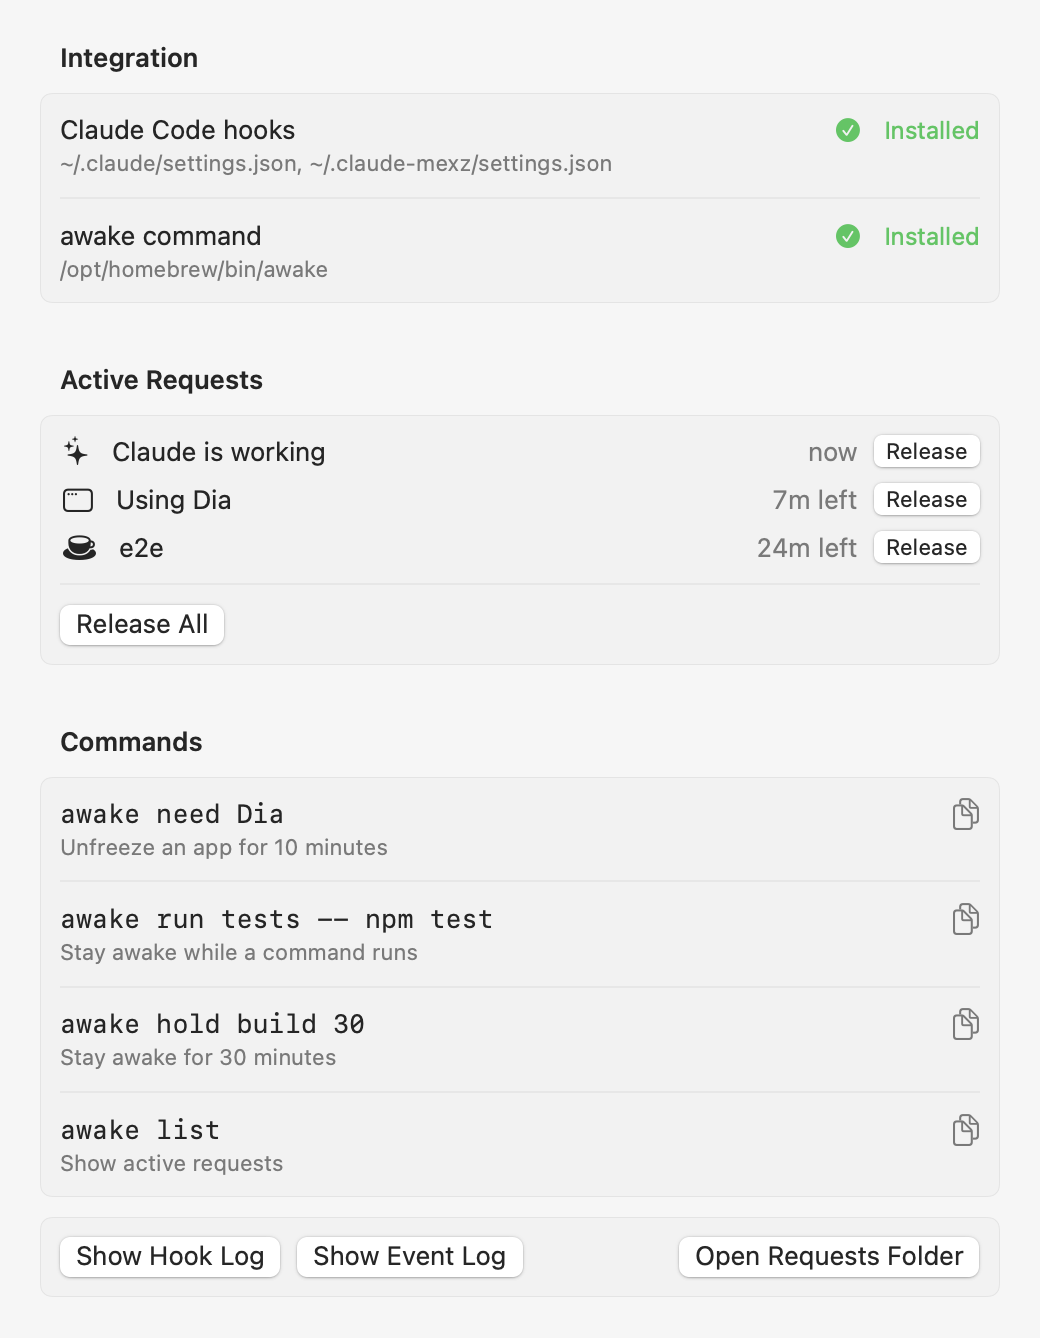
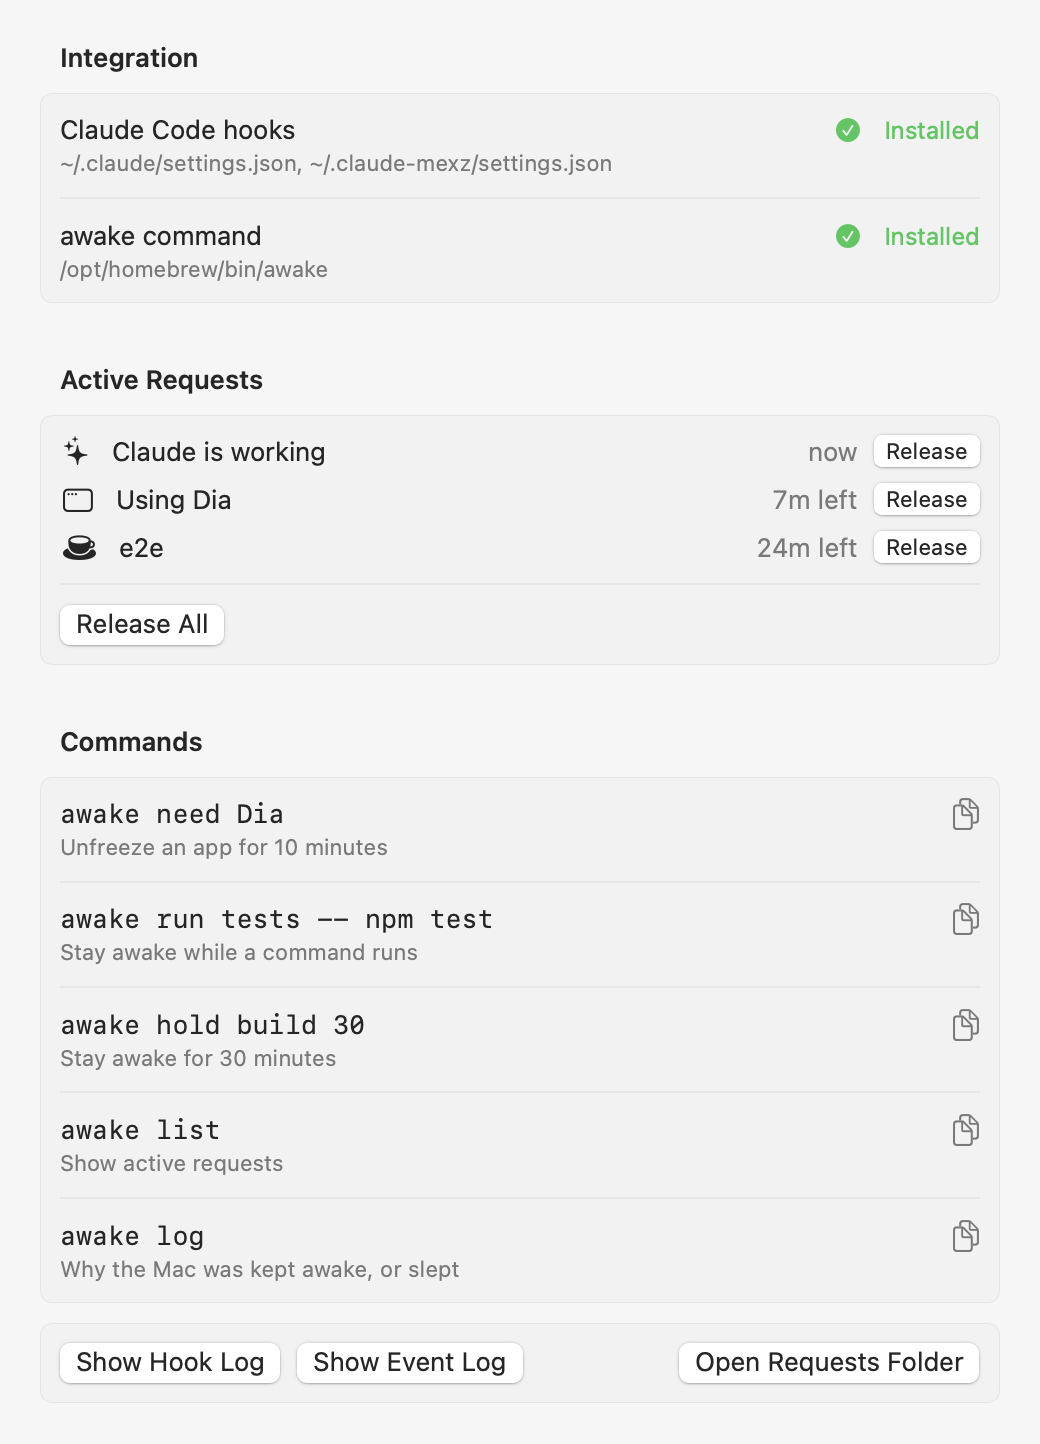
Re-block closed-lid sleep when another app resets it, and log every decision (#2)
Last night the Mac went into Clamshell Sleep at 23:20 while Sleepwalker was
holding it awake for T3 Code. Sleepwalker only remembered the last
`pmset disablesleep` value it set, so when another tool (Vorssaint also has a
sudoers rule for it) turned it off, nothing put it back.

- Read the real SleepDisabled value from IOPMrootDomain every tick and block
  closed-lid sleep again if something else re-enabled it.
- Log every keep-awake decision with its reason, lid and power changes,
  why closed-lid sleep is allowed, failed pmset calls, and a state snapshot
  at every sleep and wake. Local timestamps, kept for weeks.
- `awake log` and `awake sleeplog` to read it next to macOS's own record.
- Lid & Power pane shows whether closing the lid would sleep the Mac right now.

diff --git a/Sources/Sleepwalker/Model.swift b/Sources/Sleepwalker/Model.swift
@@ -144,6 +144,13 @@ final class Model: ObservableObject {
     private var userResumed = Set<pid_t>()
     /// Last value we sent to `pmset disablesleep`; nil = unknown, forces a reset.
     private var appliedLidSleepDisabled: Bool?
+    /// Last decisions written to the event log, so only changes get logged.
+    private var loggedAwake: String?
+    private var loggedLid: String?
+    private var loggedLidState: String?
+    private var loggedPower: String?
+    /// Set after a failed `pmset` call so a broken helper doesn't flood the log.
+    private var lidSetFailed = false
     private var timer: Timer?
     private var observers: [NSObjectProtocol] = []
 
@@ -196,6 +203,20 @@ final class Model: ObservableObject {
             Task { @MainActor in
                 self?.pausedPIDs.remove(app.processIdentifier)
                 self?.userResumed.remove(app.processIdentifier)
+                self?.apply()
+            }
+        })
+
+        // Log every sleep and wake with the state at that moment, so a Mac
+        // that fell asleep unexpectedly can be explained afterwards.
+        observers.append(center.addObserver(
+            forName: NSWorkspace.willSleepNotification, object: nil, queue: .main
+        ) { [weak self] _ in MainActor.assumeIsolated { self?.logSnapshot("Mac is going to sleep") } })
+        observers.append(center.addObserver(
+            forName: NSWorkspace.didWakeNotification, object: nil, queue: .main
+        ) { [weak self] _ in
+            MainActor.assumeIsolated {
+                self?.logSnapshot("Mac woke up")
                 self?.apply()
             }
         })
@@ -431,6 +452,7 @@ final class Model: ObservableObject {
         // protected defaults (an open Mail shouldn't keep the Mac awake).
         let anyCheckedRunning = running.contains { checked.contains($0.bundleIdentifier!) }
         let manual = keepAwake && (!onlyWhileCheckedRunning || anyCheckedRunning)
+        let power = LidControl.powerDescription
 
         // Away = lid closed and no external display (clamshell mode means the
         // user is working on the external screen, so nothing is frozen or dimmed).
@@ -438,6 +460,9 @@ final class Model: ObservableObject {
         let nowAway = closed && !LidControl.externalDisplayActive
         if closed != lidClosed { lidClosed = closed }
         if nowAway != away { away = nowAway }
+        logChange(&loggedLidState, closed ? (nowAway ? "lid closed" : "lid closed, external display") : "lid open")
+        logChange(&loggedPower, power == "AC" ? "power: AC" : "power: battery",
+                  detail: power == "AC" ? nil : String(power.dropFirst("battery ".count)))
 
         // Heat check: a closed laptop (e.g. in a bag) that gets seriously hot is
         // allowed to sleep. Cleared once someone is back at the Mac.
@@ -456,14 +481,39 @@ final class Model: ObservableObject {
 
         let shouldAssert = (manual || !currentLeases.isEmpty) && !overheated
         shouldAssert ? acquireAssertion() : releaseAssertion()
+        logChange(&loggedAwake, awakeDecision(running: running, manual: manual, leases: currentLeases))
 
         // 2. Closed-lid sleep: only blocked while we're keeping the Mac awake,
         //    and never on a nearly empty battery.
-        let wantLid = shouldAssert && lidClosedMode && lidHelperInstalled && !LidControl.batteryBelow(batteryCutoff)
-        if wantLid != appliedLidSleepDisabled {
-            if LidControl.setSleepDisabled(wantLid) || !wantLid { appliedLidSleepDisabled = wantLid }
-            lidSleepDisabled = wantLid && appliedLidSleepDisabled == true
+        let lowBattery = LidControl.batteryBelow(batteryCutoff)
+        let wantLid = shouldAssert && lidClosedMode && lidHelperInstalled && !lowBattery
+        logChange(&loggedLid, wantLid ? "closed-lid sleep: blocked"
+            : "closed-lid sleep: allowed (" + (!shouldAssert ? "not keeping awake"
+                : !lidClosedMode ? "lid-closed mode is off"
+                : !lidHelperInstalled ? "lid helper not installed"
+                : "battery below \(batteryCutoff)%") + ")")
+        // Compare against the real system value, not just what we last set:
+        // another app can turn `disablesleep` off, and then closing the lid
+        // would sleep the Mac even though we're holding it awake.
+        let actual = LidControl.isSleepDisabled
+        if wantLid && !actual {
+            if appliedLidSleepDisabled == true {
+                EventLog.write("closed-lid sleep was re-enabled by another app or pmset; blocking it again")
+            }
+            if LidControl.setSleepDisabled(true) {
+                appliedLidSleepDisabled = true
+                lidSetFailed = false
+            } else if !lidSetFailed {
+                lidSetFailed = true
+                EventLog.write("ERROR: could not run 'sudo -n pmset disablesleep 1'; the Mac will sleep when the lid closes")
+            }
+        } else if !wantLid && appliedLidSleepDisabled != false {
+            // Only undo what we set ourselves; leave other apps' settings alone.
+            if appliedLidSleepDisabled == true || actual { LidControl.setSleepDisabled(false) }
+            appliedLidSleepDisabled = false
         }
+        let blocked = wantLid && LidControl.isSleepDisabled
+        if blocked != lidSleepDisabled { lidSleepDisabled = blocked }
 
         // 3. Away transitions: dim the screen while away, restore when back.
         if nowAway != lastAway {
@@ -533,6 +583,36 @@ final class Model: ObservableObject {
             )
         }.sorted { $0.name.localizedCaseInsensitiveCompare($1.name) == .orderedAscending }
         if entries != apps { apps = entries }
+    }
+
+    /// One line describing whether (and why) we're keeping the Mac awake.
+    private func awakeDecision(running: [NSRunningApplication], manual: Bool, leases: [Lease]) -> String {
+        if overheated { return "not keeping awake: too hot with the lid closed" }
+        var reasons: [String] = []
+        if manual {
+            let names = running.filter { checked.contains($0.bundleIdentifier!) }.compactMap(\.localizedName)
+            reasons.append(onlyWhileCheckedRunning ? "Always on: \(names.joined(separator: ", "))" : "kept awake manually")
+        }
+        if !leases.isEmpty { reasons.append("AI requests: \(leases.map(\.name).sorted().joined(separator: ", "))") }
+        if !reasons.isEmpty { return "keeping awake (\(reasons.joined(separator: "; ")))" }
+        if !keepAwake { return "not keeping awake: switched off, no AI requests" }
+        return "not keeping awake: no Always on app running, no AI requests"
+    }
+
+    /// Writes `line` to the event log when it differs from the last one logged
+    /// under `key`. `detail` is appended but doesn't count as a change.
+    private func logChange(_ key: inout String?, _ line: String, detail: String? = nil) {
+        guard line != key else { return }
+        key = line
+        EventLog.write(detail.map { "\(line) (\($0))" } ?? line)
+    }
+
+    /// Snapshot of everything that decides whether the Mac may sleep.
+    func logSnapshot(_ event: String) {
+        guard !isPreview else { return }
+        EventLog.write("\(event): keeping awake=\(isAsserting), closed-lid sleep blocked=\(LidControl.isSleepDisabled), "
+            + "lid \(LidControl.isLidClosed ? "closed" : "open"), \(LidControl.powerDescription), "
+            + "\(leases.count) AI requests, \(pausedPIDs.count) apps frozen")
     }
 
     private func userActivated(_ app: NSRunningApplication) {

diff --git a/Sources/Sleepwalker/EventLog.swift b/Sources/Sleepwalker/EventLog.swift
@@ -1,13 +1,24 @@
 import Foundation
 
-/// Small append-only log of notable events (crash recovery, overheating, …)
-/// in ~/Library/Logs/Sleepwalker.log, trimmed to the last 1000 lines.
+/// Append-only log of every keep-awake decision (why the Mac is kept awake,
+/// lid and power changes, sleep and wake, crash recovery, overheating…) in
+/// ~/Library/Logs/Sleepwalker.log, trimmed to the last
+/// 15000 lines (weeks of use) once it passes 3 MB.
+/// Read it with `awake log`.
 enum EventLog {
     static let url = FileManager.default.homeDirectoryForCurrentUser
         .appendingPathComponent("Library/Logs/Sleepwalker.log")
 
+    /// Local time, so the log lines up with when things happened at the Mac.
+    private static let formatter: DateFormatter = {
+        let f = DateFormatter()
+        f.locale = Locale(identifier: "en_US_POSIX")
+        f.dateFormat = "yyyy-MM-dd HH:mm:ss"
+        return f
+    }()
+
     static func write(_ message: String) {
-        let stamp = ISO8601DateFormatter().string(from: Date())
+        let stamp = formatter.string(from: Date())
         let line = "\(stamp) \(message)\n"
         if let handle = try? FileHandle(forWritingTo: url) {
             handle.seekToEndOfFile()
@@ -20,9 +31,10 @@ enum EventLog {
     }
 
     private static func trimIfNeeded() {
-        guard let text = try? String(contentsOf: url, encoding: .utf8) else { return }
+        // Cheap size check first; only read the file once it's grown past 3 MB.
+        let size = (try? FileManager.default.attributesOfItem(atPath: url.path)[.size] as? Int) ?? 0
+        guard size > 3_000_000, let text = try? String(contentsOf: url, encoding: .utf8) else { return }
         let lines = text.split(separator: "\n", omittingEmptySubsequences: false)
-        guard lines.count > 1200 else { return }
-        try? lines.suffix(1000).joined(separator: "\n").write(to: url, atomically: true, encoding: .utf8)
+        try? lines.suffix(15000).joined(separator: "\n").write(to: url, atomically: true, encoding: .utf8)
     }
 }

diff --git a/Sources/Sleepwalker/SettingsView.swift b/Sources/Sleepwalker/SettingsView.swift
@@ -258,11 +258,18 @@ struct LidPane: View {
             } header: {
                 Text("Lid Closed")
             } footer: {
-                if model.lidHelperInstalled {
-                    Label("Lid-closed helper installed", systemImage: "checkmark.seal.fill")
-                        .font(.caption)
-                        .foregroundStyle(.secondary)
+                HStack(alignment: .firstTextBaseline) {
+                    if model.lidSleepDisabled {
+                        Label("Right now, closing the lid won't sleep the Mac.", systemImage: "checkmark.seal.fill")
+                    } else {
+                        Label("Right now, closing the lid sleeps the Mac.", systemImage: "moon.zzz")
+                    }
+                    Spacer()
+                    Button("Show Log") { Integration.open(EventLog.url) }
+                        .buttonStyle(.link)
                 }
+                .font(.caption)
+                .foregroundStyle(.secondary)
             }
 
             Section {
@@ -283,6 +290,7 @@ struct LidPane: View {
                 Text("With an external display connected, nothing is frozen or dimmed. If the Mac gets seriously hot with the lid closed, Sleepwalker lets it sleep to cool down.")
                     .font(.caption)
                     .foregroundStyle(.secondary)
+                    .multilineTextAlignment(.leading)
                     .fixedSize(horizontal: false, vertical: true)
                     .frame(maxWidth: .infinity, alignment: .leading)
             }
@@ -348,6 +356,7 @@ struct AIPane: View {
                 CommandRow(command: "awake run tests -- npm test", detail: "Stay awake while a command runs")
                 CommandRow(command: "awake hold build 30", detail: "Stay awake for 30 minutes")
                 CommandRow(command: "awake list", detail: "Show active requests")
+                CommandRow(command: "awake log", detail: "Why the Mac was kept awake, or slept")
             } header: {
                 Text("Commands")
             }

diff --git a/Sources/Sleepwalker/LidControl.swift b/Sources/Sleepwalker/LidControl.swift
@@ -37,6 +37,30 @@ enum LidControl {
         return p.terminationStatus == 0
     }
 
+    /// The system's actual `disablesleep` value. Other tools (Vorssaint, Amphetamine,
+    /// a manual `pmset`) can change it behind our back, so never trust a cached value.
+    static var isSleepDisabled: Bool {
+        let entry = IOServiceGetMatchingService(kIOMainPortDefault, IOServiceMatching("IOPMrootDomain"))
+        guard entry != 0 else { return false }
+        defer { IOObjectRelease(entry) }
+        return (IORegistryEntryCreateCFProperty(entry, "SleepDisabled" as CFString, kCFAllocatorDefault, 0)?
+            .takeRetainedValue() as? Bool) ?? false
+    }
+
+    /// "AC" or "battery 87%", for the event log.
+    static var powerDescription: String {
+        guard let info = IOPSCopyPowerSourcesInfo()?.takeRetainedValue(),
+              let list = IOPSCopyPowerSourcesList(info)?.takeRetainedValue() as? [CFTypeRef]
+        else { return "AC" }
+        for source in list {
+            guard let desc = IOPSGetPowerSourceDescription(info, source)?.takeUnretainedValue() as? [String: Any],
+                  desc[kIOPSPowerSourceStateKey] as? String == kIOPSBatteryPowerValue
+            else { continue }
+            return "battery \(desc[kIOPSCurrentCapacityKey] as? Int ?? -1)%"
+        }
+        return "AC"
+    }
+
     /// True when running on battery below `percent`. Used as a safety cutoff so a
     /// closed laptop in a bag doesn't drain to zero.
     static func batteryBelow(_ percent: Int) -> Bool {

diff --git a/README.md b/README.md
@@ -67,6 +67,8 @@ awake hold build 30            # keep awake for 30 min
 awake release build
 awake run tests -- npm test    # keep awake while a command runs
 awake list
+awake log                      # why the Mac was kept awake (or wasn't), sleeps and wakes
+awake sleeplog                 # macOS's own record of real sleeps and wakes
 ```
 
 Leases are just files in `~/Library/Application Support/Sleepwalker/leases/`,
@@ -84,6 +86,15 @@ so a lease can never outlive its expiry even if the tool crashes.
   while you're away, Sleepwalker stops keeping the Mac awake so it sleeps and
   cools down (logged in `~/Library/Logs/Sleepwalker.log`). Cleared when you
   open the lid.
+- **Other sleep tools** – apps like Vorssaint or Amphetamine also toggle
+  `pmset disablesleep`. Sleepwalker reads the real value every 3 seconds, not
+  just what it last set, and blocks closed-lid sleep again if another app turned
+  it back on (logged as "re-enabled by another app").
+- **Event log** – `~/Library/Logs/Sleepwalker.log` (or `awake log`) records
+  every decision: when and why the Mac is kept awake (which Always on app,
+  which AI requests), lid and power changes, whether closed-lid sleep is
+  blocked and why not, and a snapshot of the state at every sleep and wake.
+  Compare with `awake sleeplog` to explain an unexpected sleep.
 - **Never frozen by default** – terminals and editors (where agents run),
   AI apps, calls (Zoom, FaceTime, Teams, Discord, Meet), audio (Music,
   Spotify), password managers, VPNs, sync/backup, Docker/OrbStack/Ollama/LM
